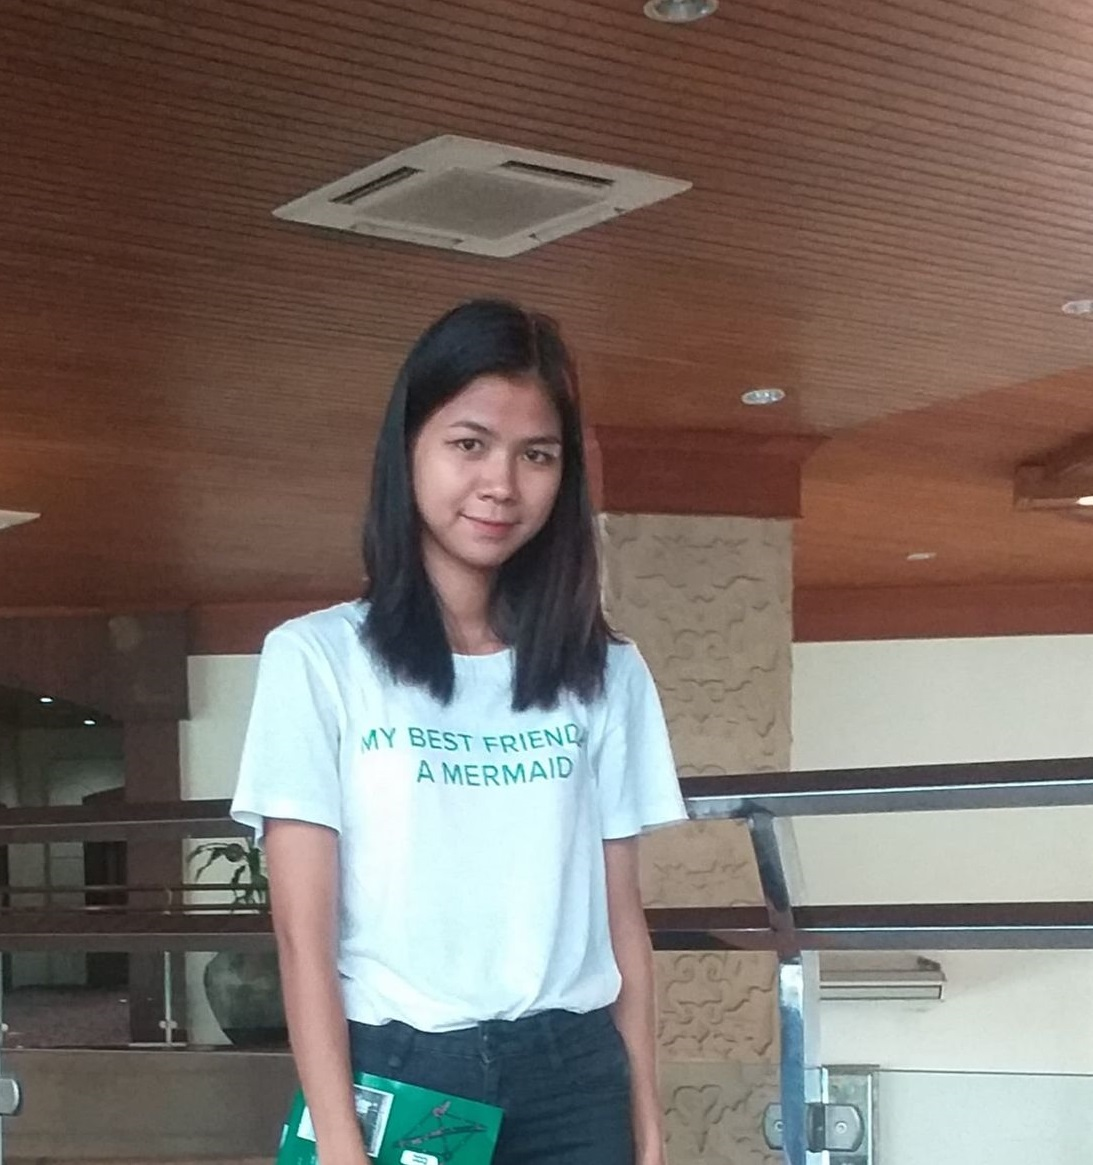
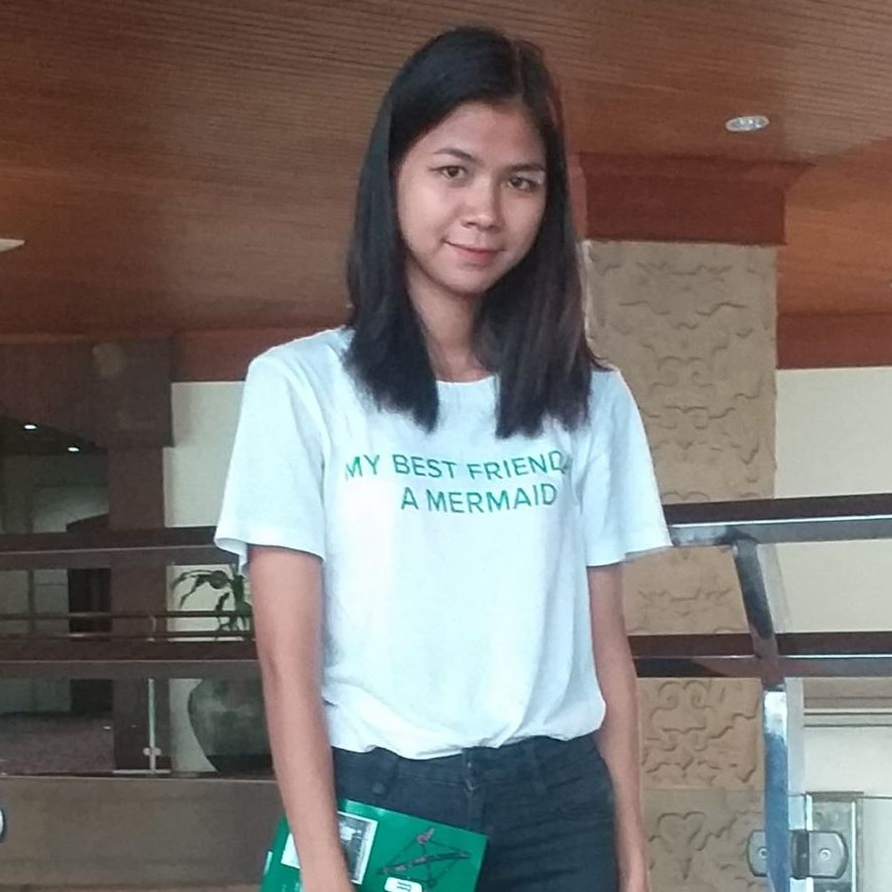
eadited about page(HZY)

diff --git a/about.html b/about.html
@@ -126,7 +126,7 @@
 			</div>
 			<div class="col-md-6 col-lg-4 my-4">
 				<div class="card h-100">
-					<img src="images/profile_tzn.png" class="card-img-top" height="350px">
+					<img src="images/profile_tzn.png" class="card-img-top">
 					<div class="card-body">
 						<h3 class="my-4 text-primary"> Thinzar Nwe</a> </h3>
 						<p class="p_style font-weight-bold">Hi guys!My name is Thinzar Nwe and I am graduated from Scottish Qualifications Authority(SQA).I am currently working together with members of Big Drop Studio for this website.</p>
